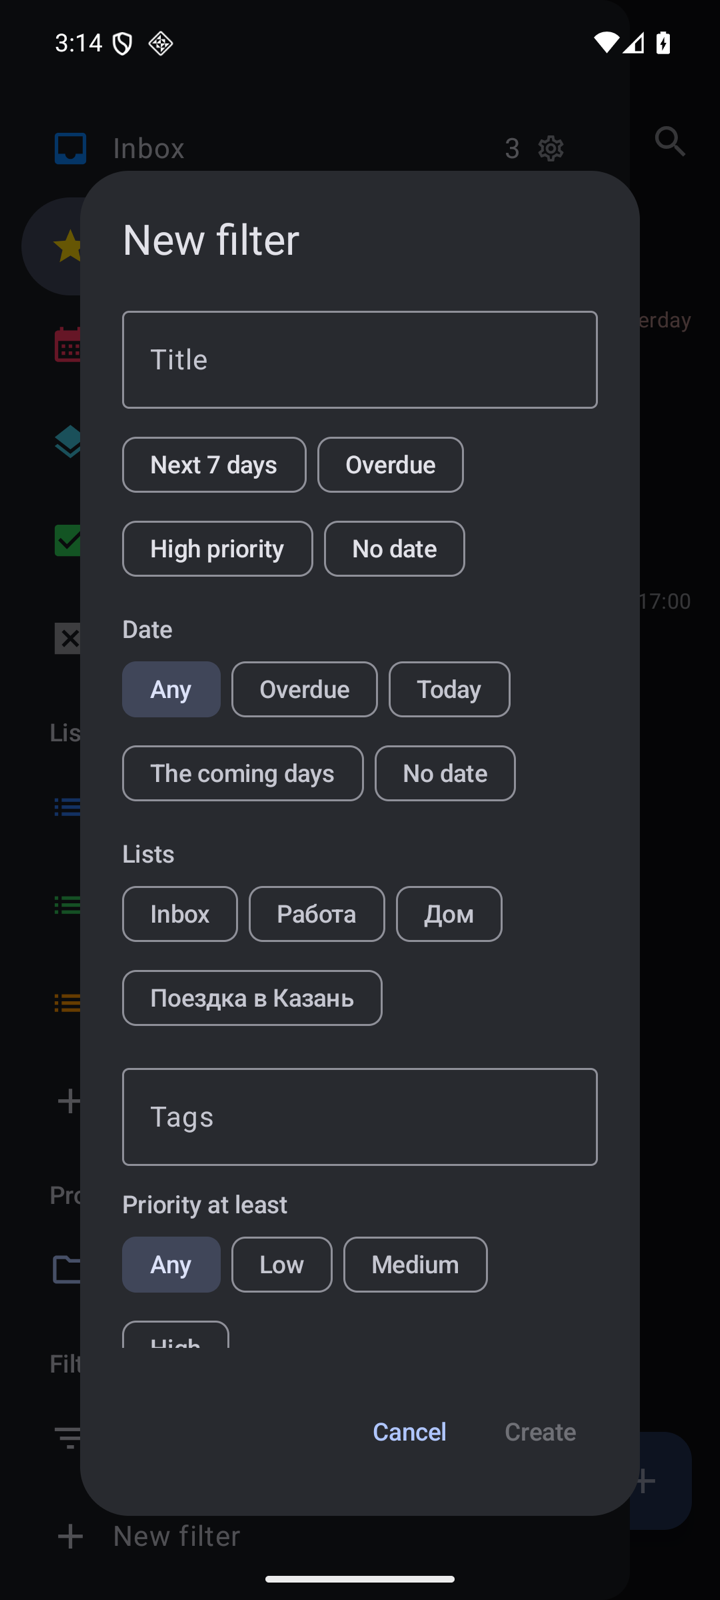
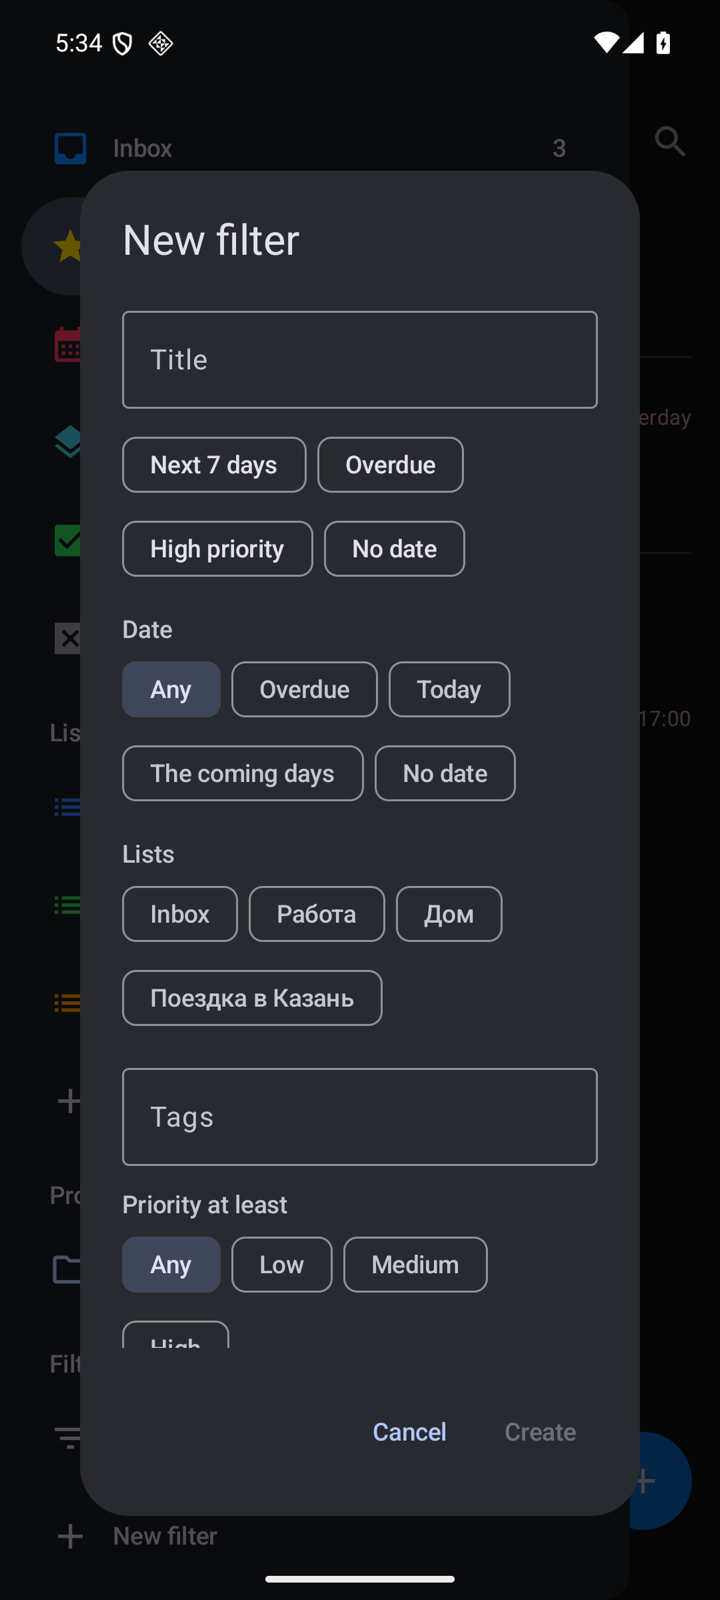
docs: describe the look of the Android app and take its screenshots again (R95, R96, R64)
R95 and R96 are new, the compact card of R64 is rewritten, each with a
scenario. The record of the check says what was looked at on the
emulator and what was not. The usage guide follows the new card of a
task, the new card of a new task and the long press in the panel of
lists.

diff --git a/docs/specs/product.md b/docs/specs/product.md
@@ -90,6 +90,7 @@
 - R61. Оформление выбирается на каждом устройстве: «Как в системе», «Светлое» или «Тёмное»; по умолчанию — как в системе. Выбор применяется сразу ко всему приложению (на macOS — к основному окну, окну быстрого ввода, окну в строке меню и настройкам) и сохраняется между запусками. Настройка принадлежит устройству, в вебе — браузеру, и не синхронизируется. Оформление меняет фон и цвет текста; цвета списков и красный цвет просроченного срока остаются теми же (принцип 7).
 - R79. macOS и Android: у встроенных представлений в боковой панели и в панели списков значок залитый и своего постоянного цвета: «Входящие» — синий, «Сегодня» — жёлтый, «Предстоящие» — розовый, «Все» — бирюзовый, «Выполненные» — зелёный, «Не буду делать» и «Корзина» — серый. Цвета одни и те же на обеих платформах, в светлом и тёмном оформлении отличаются только яркостью и от цветов списков и от динамической палитры Android не зависят. Значок списка остаётся в цвете списка, значки тегов, проектов и фильтров — без цвета.
 - R80. macOS: у основного окна нет полосы панели инструментов с названием. Содержимое начинается с крупного названия представления, перед названием стоит его значок: у встроенного представления — значок из R79, у списка — значок и цвет списка, у тега, проекта, фильтра и поиска — их значок из боковой панели. Кнопка «+», значок синхронизации и значок поиска стоят справа вверху окна, у его правого края. Поиск — значок, а не поле: щелчок по нему или ⌘F открывают поле поиска справа от крупного названия и ставят в него курсор; Esc очищает поиск и убирает поле, поле убирается и тогда, когда его покинули пустым, и при переходе в другое представление. ⌘N работает как раньше. Название окна в системе (меню «Окно», Mission Control) остаётся названием представления.
+- R95. Android: вид экрана списка. В полосе наверху названия нет: слева кнопка панели списков, справа значок поиска и за ним значок синхронизации. Содержимое начинается с крупного полужирного названия представления, перед ним стоит значок: у встроенного представления — значок из R79, у списка — значок и цвет списка, у тега, проекта и фильтра — их значок из панели списков. Название прокручивается вместе со списком и стоит и над пустым представлением. Пока открыт поиск, в полосе стоит его поле, а крупного названия нет. Отметка выполнения в строке задачи маленькая, тонкая и приглушённая, цвет списка она не несёт. Заголовок группы набран цветом текста, полужирным, под ним тонкая линия; красным остаётся только просроченный срок в строке. Кнопка «+» круглая, синего цвета «Входящих» (R79) в любом оформлении, с тенью. В панели списков у строк нет значка настройки: настройки «Входящих», списка, фильтра и списка из архива открывает долгое нажатие на строку. Под строкой, которую смахивают, видна цветная подложка со значком: зелёная с галочкой при смахивании вправо, жёлтая с календарём при смахивании влево.
 
 ### Заметка в Markdown
 
@@ -102,6 +103,7 @@
 - R81. Android: пока в заметке карточки задачи набирают текст, строка с курсором видна над клавиатурой. Когда заметка выше места над клавиатурой, карточка прокручивается за курсором — при наборе, при переносе курсора тапом и когда клавиатура появляется.
 - R82. macOS: вид карточки новой задачи. Название набрано тем же размером и начертанием, что текст заметки, квадрат перед ним приглушён. Под названием заметка с подсказкой «Заметки» (она же в карточке открытой задачи), под ней ряд полей: то, что задано, стоит слева плашкой со значением (начало, срок, повтор, приоритет, теги), то, что не задано, — справа значком без подписи, тонким и светлым (третичный цвет текста); значки «#» и вложения всегда справа. Пока открыт выбор поля, его плашка или значок остаётся на своём месте и переходит на другую сторону, когда выбор закрыт. В окне быстрого ввода карточка кончается полосой: слева список, в который попадёт задача, справа кнопки «Отмена» (то же, что Esc) и «Сохранить» (то же, что Return в названии; недоступна, пока названия нет). Кнопки полосы — капсулы с полужирным белым текстом: «Сохранить» цвета акцента, «Отмена» серая. У окна быстрого ввода нет системной рамки: оно нарисовано карточкой с углами круглее, чем у окон системы (радиус 16 пунктов), и перетаскивается за фон. Под заметкой пустой карточки в нём остаётся место на три строки, с более длинной заметкой окно растёт; над названием отступ больше, чем по бокам. В основном окне и в окне строки меню полосы нет, список стоит плашкой в ряду полей слева, а заметка занимает столько строк, сколько в ней есть. Заметка, взятая из буфера обмена (R58), пока её не тронули, показана блоком с подложкой и подписью «Из буфера обмена», не длиннее трёх строк, с кнопкой, которая её убирает; щелчок по блоку или переход в заметку с клавиатуры раскрывают его в обычную заметку целиком.
 - R94. macOS: вид карточки открытой задачи. В строке названия нет подложки выделения, под названием нет разделительной линии, справа нет шеврона. Отметка выполнения во всех строках списка — размером с текст, тонкая и приглушённая (третичный цвет текста), цвет списка она не несёт. Текст заметки набран обычным цветом текста, серой остаётся только подсказка «Заметки»; так же в карточке новой задачи и в окне быстрого ввода. Ряд полей устроен как в карточке новой задачи (R82): то, что задано, стоит слева плашкой со значением — начало, срок, повтор, напоминание, приоритет, теги; то, что не задано, — справа тонким светлым значком без подписи; значки «#», подзадачи (пока подзадачи не показаны) и вложения всегда справа. Пустых плашек «Начало» и «Срок» и кнопки «+» нет. Пока открыт выбор поля, его плашка или значок остаётся на своём месте. Карточка — прямоугольник с радиусом скругления 14 пунктов, без заметной обводки, с мягкой широкой тенью и отступами больше прежних; та же форма у карточки новой задачи по ⌘N.
+- R96. Android: вид карточки открытой задачи. Карточка остаётся нижней панелью. Название набрано обычным начертанием, отметка перед ним приглушена, как в строке списка (R95). Ряд полей под заметкой устроен как на macOS (R94): то, что задано, стоит слева плашкой со значком и значением — начало, срок, повтор, напоминание, приоритет, теги; то, что не задано, — справа светлым значком без подписи; значки тега, подзадачи (пока подзадачи не показаны) и вложения всегда справа. Просроченный срок открытой задачи в плашке красный. Пустых плашек «Начало» и «Срок» и кнопки «+» нет. Плашка тега убирает тег нажатием, остальные плашки и значки открывают выбор значения. Линии перед подзадачами нет. Подзадачи разделены тонкими линиями, отметка подзадачи — маленький кружок; выполненная подзадача серая, с галочкой в кружке, без зачёркивания.
 - R83. Название и заметка открытой задачи, которые правят в эту минуту, записываются не только когда поле теряет клавиатуру, но и когда приложение останавливают штатно: на macOS — при выходе (⌘Q, выход из системы) и когда приложение перестаёт быть активным, на Android — когда приложение уходит в фон. Набранное переживает выход и выгрузку приложения из памяти после ухода в фон. Принудительная остановка, падение и отключение питания при открытом поле сюда не входят: при них теряется набранное с последнего сохранения. Карточка новой задачи не сохраняется, пока задача не создана (R37).
 - R53. В веб-интерфейсе заметка вне правки показана оформленной, без символов разметки; щелчок по ней открывает поле правки с исходным текстом, потеря фокуса сохраняет заметку и возвращает оформленный вид. Чекбоксы в вебе не переключаются. Текст заметки попадает на страницу только текстом, не разметкой страницы; ссылка ведёт по адресу только со схемой `http`, `https` или `mailto`, остальные показываются текстом.
 - R60. Таблица в заметке показывается сеткой: столбцы выровнены по ширине самой длинной ячейки, строка заголовка выделена, строка из дефисов не показывается, выравнивание столбца (`:---`, `:---:`, `---:`) соблюдается, оформление внутри ячейки (жирный, код, ссылка) сохраняется. Короткая строка дополняется пустыми ячейками, лишние ячейки длинной строки не показываются. Текст заметки от этого не меняется (R50). В вебе сетка — таблица на месте исходного текста, пока заметка не открыта для правки; таблица шире заметки переносит текст внутри ячеек, а когда и этого мало, прокручивается вбок. На macOS и Android сетка показывается вне блока с курсором: курсор в любой строке таблицы возвращает её исходный текст моноширинным шрифтом, уход курсора возвращает сетку. Там же сетка не переносится по строкам, поэтому таблица шире заметки остаётся исходным текстом; исходным текстом остаётся и таблица внутри пункта списка или цитаты. Tab между ячейками не переходит.
@@ -123,7 +125,7 @@
 - R58. Окно быстрого ввода, открытое пустым, берёт заметку из буфера обмена: текст или адрес, скопированный перед этим, оказывается в заметке, курсор стоит в названии. Это относится к окну по глобальной клавише на macOS и к окну с ярлыка и с плитки на Android; «Поделиться», меню выделенного текста, окно строки меню и карточка новой задачи в основном окне буфер не читают. Одно и то же скопированное подставляется один раз: показанное в окне считается использованным, даже если задача не создана. Берётся только текст не длиннее 2000 знаков, пробелы по краям отбрасываются; файлы, изображения и то, что источник пометил как скрытое (пароли), пропускаются; более длинный текст не обрезается, а пропускается целиком. Подставленный текст правится как набранный; пока он не изменён, рядом с заметкой есть кнопка, которая убирает его одним действием. Настройка «Заметка из буфера обмена» в разделе «Новые задачи» принадлежит устройству, не синхронизируется и по умолчанию включена; пока она выключена, буфер не читается вовсе. Android 12 и новее сам показывает сообщение о чтении буфера — оно появляется один раз на скопированное, потому что уже использованное приложение узнаёт по описанию буфера, не читая содержимого.
 - R59. Android: диалог с полями ввода (настройки, список, фильтр, тег, свой повтор) остаётся над клавиатурой: пока она открыта, диалог занимает место над ней, его кнопки видны, а содержимое прокручивается. В низком окне — высота меньше 480 dp: окно быстрого ввода на повёрнутом телефоне или разделённый экран, потому что главное окно на телефоне не поворачивается (R77), — заголовок, поле и кнопки обычного диалога над клавиатурой не помещаются, поэтому там такой диалог занимает весь экран: заголовок и кнопки стоят одной строкой наверху и при открытой клавиатуре видны, содержимое прокручивается под ними. Вид выбирается по высоте окна, а не по клавиатуре: её появление диалог не перестраивает и курсор из поля не уводит. Диалоги без полей ввода (дата, приоритет, выбор из списка) остаются обычными.
 - R63. Android: поворот экрана не закрывает карточку новой задачи и не стирает введённое в ней. Поворачиваются окно быстрого ввода и главное окно на широком дисплее; на телефоне главное окно стоит в портретной ориентации (R77). Сохраняются название, заметка, дата начала, срок, повтор, приоритет, выбранные файлы и список — и в карточке на главном экране (R57), и в окне быстрого ввода. Диалог, открытый из карточки или из редактора задачи (дата, повтор, приоритет, список, тег), остаётся открытым; в нём сохраняются шаг выбора даты, поля своего повтора и набранный тег. Заметка, взятая из буфера обмена (R58), после поворота остаётся вместе с кнопкой, которая её убирает; убранная заметка не возвращается. В портретной ориентации карточка возвращается в том размере, в каком была до поворота (R64).
-- R64. Android: карточка новой задачи одна, двух размеров; она же стоит в окне быстрого ввода. Компактная, по умолчанию: название и кнопка отправки в одной строке, заметка и ряд значков — дата начала, срок, повтор, приоритет, файл, список. Заметка компактной карточки занимает одну строку, пока пуста, и растёт вместе с текстом до пяти строк; заметка длиннее прокручивается внутри своего поля, строка с курсором в нём видна, а карточка выше не становится — название, кнопка отправки и ряд значков остаются над клавиатурой. Заданное значение стоит рядом со своим значком: «завтра», «каждую неделю», приоритет восклицательными знаками, число файлов, имя списка; значение, которому не хватает места, обрезается многоточием. На ширине телефона ряд виден целиком и вбок не прокручивается, в том числе когда заданы срок, повтор и приоритет. Кнопка в строке названия разворачивает карточку на весь экран. Развёрнутая: строка названия с кнопкой отправки стоит наверху, под ней прокручиваются заметка в несколько строк и те же поля строками с подписями; кнопка в строке названия сворачивает карточку. Разворот и сворачивание сохраняют всё введённое и оставляют курсор там, где он был. В альбомной ориентации — на телефоне в ней бывает только окно быстрого ввода (R77) — карточка всегда развёрнута и не сворачивается: компактной над клавиатурой не хватает места; при открытой клавиатуре название и кнопка отправки видны, а до заметки и полей можно докрутить. Заметка в карточке — простой текст в обоих размерах.
+- R64. Android: карточка новой задачи одна, двух размеров; она же стоит в окне быстрого ввода. Компактная, по умолчанию: приглушённый квадрат и название обычным начертанием, заметка, ряд полей и полоса внизу. В ряду полей то, что задано, стоит слева плашкой со значком и значением — начало, срок, повтор, приоритет, число файлов; то, что не задано, — справа светлым значком без подписи; значок файла всегда справа. Плашкой стоит и то, что разобрано из названия (R41): срок, приоритет, теги, список. Приоритет в плашке назван словом, а не восклицательными знаками. В полосе слева список, в который попадёт задача, справа кнопка-капсула «Сохранить» синего цвета «Входящих» (R79); она недоступна, пока названия нет. Кнопки отправки у названия в компактной карточке нет. Заметка компактной карточки занимает одну строку, пока пуста, и растёт вместе с текстом до пяти строк; заметка длиннее прокручивается внутри своего поля, строка с курсором в нём видна, а карточка выше не становится — название, ряд полей и полоса остаются над клавиатурой. Плашки, которым не хватает ширины, переходят на следующую строку ряда, вбок ряд не прокручивается. Кнопка в строке названия, светлый значок, разворачивает карточку на весь экран. Развёрнутая: строка названия с кнопкой отправки стоит наверху, под ней прокручиваются заметка в несколько строк и те же поля строками с подписями; кнопка в строке названия сворачивает карточку. Разворот и сворачивание сохраняют всё введённое и оставляют курсор там, где он был. В альбомной ориентации — на телефоне в ней бывает только окно быстрого ввода (R77) — карточка всегда развёрнута и не сворачивается: компактной над клавиатурой не хватает места; при открытой клавиатуре название и кнопка отправки видны, а до заметки и полей можно докрутить. Заметка в карточке — простой текст в обоих размерах.
 - R65. Android: смахивание вправо, начатое в полосе шириной 56 dp у левого края экрана, открывает панель списков и задачу под пальцем не трогает. Начатое правее полосы выполняет задачу, как прежде. Нажатие на отметку, долгое нажатие и прокрутка в полосе работают как везде. При жестовой навигации внешнюю часть полосы забирает системный жест «назад», панели достаётся остальное.
 - R66. Android: уведомление приходит в назначенную минуту: будильники точные, если приложению разрешены «Будильники и напоминания». На Android 13 и новее после установки разрешения нет: настройки уведомлений тогда показывают строку о том, что напоминания могут опаздывать, и нажатие на неё открывает системный экран этого разрешения для Lists. Без разрешения будильники остаются неточными: система вправе показать уведомление позже назначенного, окно доставки доходит до часа. До Android 12 разрешение не требуется. Когда разрешение дают, будильники сразу ставятся заново точными. Когда его забирают, система останавливает приложение и снимает его будильники; они возвращаются неточными при следующем запуске приложения. Точными становятся все уведомления из R36: напоминания, сроки и сводка дня.
 - R67. Android: смахивание вниз в начале списка запускает синхронизацию сразу, не дожидаясь расписания. Пока она идёт, вверху списка виден индикатор; синхронизация, которая началась сама, его не показывает. Жест работает во всех представлениях, включая пустые. Пока синхронизация не настроена, жеста нет. Итог виден тем же значком, что и всегда (R27).
@@ -204,7 +206,10 @@ Android: один экран со списком задач, выдвижная 
 - R37, R82: ⌘N → набрать «а» → Esc → карточки нет, задачи «а» нет. ⌘N → набрать «б» → Return → задача «б» создана. ⌘N → набрать «в», перейти в заметку → ⌘Return → задача «в» создана. В карточке поставить срок и приоритет → они стоят слева плашками, остальные поля справа значками; Tab идёт по плашкам, затем по значкам, затем в название. Скопировать длинный текст, открыть окно быстрого ввода → под названием блок «Из буфера обмена» из трёх строк, внизу полоса со списком и кнопками; щелчок по блоку → заметка целиком, блока нет.
 - R94: открыть задачу со сроком, высоким приоритетом и тегом → в строке названия ни подложки, ни линии под ней, ни шеврона; слева три плашки, справа значки начала, повтора, напоминания, «#», подзадачи и вложения. Щёлкнуть значок повтора и выбрать «Каждую неделю» → плашка повтора встала слева, значка справа нет. Tab из заметки идёт по плашкам, затем по значкам, затем в название. Esc закрывает карточку.
 - R83: открыть задачу, набрать в заметке «купить» и, не уходя из заметки, выйти из приложения (macOS, ⌘Q) или нажать «Домой» и дождаться выгрузки приложения (Android) → открыть приложение → в заметке «купить». То же с названием задачи.
-- R64: Android, нажать «+», перейти в заметку компактной карточки и набрать три строки → видны все три, ряд значков стоит под ними. Набрать ещё семь → поле заметки высотой в пять строк, видна десятая строка с курсором, название, кнопка отправки и ряд значков видны над клавиатурой. Развернуть карточку и свернуть обратно → все десять строк на месте, курсор в заметке. То же в окне быстрого ввода.
+- R64: Android, нажать «+», перейти в заметку компактной карточки и набрать три строки → видны все три, ряд полей стоит под ними. Набрать ещё семь → поле заметки высотой в пять строк, видна десятая строка с курсором, название, ряд полей и полоса с кнопкой «Сохранить» видны над клавиатурой. Развернуть карточку и свернуть обратно → все десять строк на месте, курсор в заметке. То же в окне быстрого ввода.
+- R64: Android, нажать «+», набрать «Позвонить в банк завтра 10:00 !!» → в ряду полей слева плашки «Завтра, 10:00» и «Средний», справа значки начала, повтора и файла, значков срока и приоритета нет; в полосе слева список, справа «Сохранить». Нажать «Сохранить» → задача создана со сроком завтра в 10:00 и средним приоритетом, карточка пуста и открыта, «Сохранить» недоступна.
+- R95: Android, открыть «Сегодня» с просроченной задачей → в полосе наверху названия нет, над задачами крупное «Сегодня» с жёлтой звездой, заголовки «Просрочено» и «Сегодня» набраны цветом текста с линией под ними, отметки серые у задач любого списка, кнопка «+» круглая и синяя. Открыть список → перед крупным названием значок списка в его цвете. Открыть панель списков и долго нажать на список → открыты его настройки; значка настройки у строк нет.
+- R96: Android, открыть задачу со сроком, приоритетом и тегом, без начала, повтора и напоминания → под заметкой слева плашки срока, приоритета и тега, справа значки начала, повтора, напоминания, тега и файла; плашек «Начало» и «Срок» без значения нет. Нажать значок повтора и выбрать «Каждую неделю» → слева появилась плашка повтора, значка повтора справа нет. У задачи с тремя подзадачами, одна из которых выполнена, → между подзадачами линии, отметки круглые, выполненная серая с галочкой и не зачёркнута.
 - R77: Android, телефон, открыт список → повернуть устройство набок → окно остаётся портретным; открыть окно быстрого ввода из «Поделиться» поверх приложения в альбомной ориентации → окно быстрого ввода альбомное, карточка в нём развёрнута (R64).
 - R45: карточка новой задачи со сроком 2026-10-05 и повтором «каждую неделю» → создать → у задачи правило «каждую неделю»; завершить → срок 2026-10-12.
 - R48: заметка `# План` + пустая строка + `**важно** и *срочно*, см. [сайт](https://example.org)` → диапазоны: заголовок первого уровня на «План», жирный на «важно», курсив на «срочно», ссылка с адресом `https://example.org` на «сайт»; `# `, `**`, `*`, `[` и `](https://example.org)` помечены разметкой. Смещения считаются в единицах UTF-16: в заметке `😀 **да**` жирный начинается с 5.
@@ -308,6 +313,8 @@ Android: один экран со списком задач, выдвижная 
 **Более лёгкий вид карточки новой задачи** (R82, #136) — решения автора проекта от 2026-10-09 записаны в #136: обычное начертание названия и светлые значки во всех трёх местах, углы окна быстрого ввода круглее, подсказка «Заметки». Проверено 2026-10-09 в скрытом экземпляре отладочной сборки с отдельной папкой данных, русский интерфейс, светлое оформление. Шаг `quicknote` нарисовал окно быстрого ввода в файл: название обычным начертанием размером текста, подсказка «Заметки», под ней пустое место до ряда значков, шесть светлых тонких значков справа, полоса со списком «Входящие» и двумя капсулами — серой «Отмена» и бледной (недоступной) «Сохранить»; углы скруглены, высота пустого окна 184 пункта вместо прежних 150. Шаг `winshot` в основном окне: у карточки по ⌘N то же название и те же значки, заметка в одну строку, полосы нет. Tab из названия ведёт в заметку, следующий — на плашку списка; Esc закрывает карточку. Не проверено: видимое окно рядом с окном Things — приёмка issue; принимает ли окно без системной рамки клавиатуру по глобальной клавише, перетаскивается ли оно и какая у него тень (в скрытом запуске окно прозрачно и клавиатуру не берёт); тёмное оформление; кнопки-капсулы щелчком и с клавиатуры; окно строки меню; рост окна с длинной заметкой.
 
 **Более лёгкий вид карточки открытой задачи** (R94, #159) — решения автора проекта от 2026-10-09 записаны в #159; отметку выполнения он попросил приглушить и уменьшить по тому же сравнению с Things. Проверено 2026-10-09 в скрытом прозрачном экземпляре отладочной сборки на демо-данных, шаг `winshot`: у открытой задачи «Квартальный отчёт» нет подложки, линии и шеврона, отметка серая размером с текст, заметка тёмная, слева плашки срока, приоритета и тега, справа шесть светлых значков, вложение и строка подзадач на месте, углы скруглены, обводки не видно; у «Планёрки» слева срок, повтор и тег; у карточки новой задачи та же форма. Tab из названия ведёт в заметку, затем на срок, приоритет, тег, начало; Esc закрывает карточку. Не проверено: видимое окно рядом с окном Things — приёмка issue; тёмное оформление, где карточку от окна отличает только слабая обводка; выбор значения из значка справа и переход плашки на левую сторону; значок подзадачи и значок напоминания щелчком; радиус 14, тень и отступы выбраны без замера по Things.
+
+**Вид Android по образцу Things** (R95, R96, R64, #161) — решения автора проекта от 2026-10-09 записаны в #161; образцом служили снимки Things 3 для iPhone из App Store и со справочных страниц culturedcode.com, приложения для Android у Things нет. Проверено 2026-10-09 на эмуляторе API 36 (1080×2400) без окна на демо-данных (`cargo run --example demo`), английский интерфейс, `uiautomator dump` и снимки экрана. «Сегодня», тёмное оформление: в полосе слева меню, справа поиск, названия нет; под полосой крупное «Today» с жёлтой звездой; «Overdue» и «Today» набраны цветом текста с линией; отметки серые у задач синего и зелёного списков; «+» круглая и синяя. Список «Работа», светлое оформление: перед названием значок списка синим. Панель списков: значков настройки у строк нет, долгое нажатие на «Работа» открыло настройки списка. Смахивание строки: вправо — зелёная подложка с галочкой, влево — жёлтая с календарём; строка отпущена на месте, задача не изменилась. Карточка задачи «Квартальный отчёт»: название обычным начертанием, слева плашки «Today, 17:00» (красная, срок прошёл), «High», «#отчёты», под ними справа значки начала, повтора, напоминания, тега и файла; между тремя подзадачами линии, отметки круглые, выполненная серая с галочкой без зачёркивания. У «Планёрки» слева срок, повтор «Every week» и тег, плашки перешли на вторую строку, значки стоят третьей. Значок повтора открывает выбор повтора. Карточка новой задачи: после «Call the bank tomorrow 10:00 !!» слева плашки «Tomorrow, 10:00» и «Medium», справа значки начала, повтора и файла, в полосе список и синяя «Save»; нажатие «Save» создало задачу со сроком на завтра 10:00 и средним приоритетом (запрос к базе приложения), карточка осталась открытой и пустой, «Save» недоступна. Окно быстрого ввода из «Поделиться» показывает ту же карточку. Снимки `docs/screenshots/android-*.png` сняты заново той же сборкой. Не проверено: выбор значения в открывшемся выборе и переход значка в плашку (нажатие в сценарии прошло мимо пункта); развёрнутая карточка новой задачи; значок синхронизации рядом с поиском (синхронизация в эмуляторе не настроена); пустое представление и крупное название над ним; названия тега, проекта и фильтра; русский интерфейс; TalkBack; настоящий телефон. Не сделано: ручки перетаскивания у подзадач на макете — перестановки подзадач на Android нет; название в карточке открытой задачи стоит правее заметки на 16 dp, как и раньше.
 
 **Клавиатура в карточке по ⌘N после быстрого ввода** (R37, #152) — найдено автором проекта 2026-10-09 в видимом окне отладочной сборки: после работы с окном быстрого ввода ⌘N в основном окне открывал карточку, в которую нельзя было писать. Состояние снято шагом `state` раз в две секунды, пока автор повторял сценарий руками: основное окно ключевое, карточка открыта, а клавиатура у корневого вида окна (`AppKitWindowHostingView`), не у поля названия; до ⌘N она была у списка задач. Просьба карточки о клавиатуре при появлении теряется. Почему — не установлено: скриптом в видимом окне (панель, Esc, панель, задача через неё, ⌘N) и в скрытом экземпляре (клавиатура у списка, выделена строка, ⌘N, шесть раз) сбой не воспроизвёлся, нужен проход панели руками. Отвергнуто замером: основное окно после закрытия панели остаётся ключевым. Правка: карточка в основном окне через 50, 150, 350 и 750 мс после появления смотрит, есть ли клавиатура у текста, плашки или открытого выбора, и если нет — просит её для названия заново. Проверено тем же ручным сценарием на сборке с правкой: сбой случился три раза, каждый раз карточка попросила клавиатуру повторно и получила её, название набрано. В скрытом экземпляре обычный путь не изменился: ⌘N даёт клавиатуру названию без повторной просьбы, Tab ведёт в заметку и на плашки. Не проверено: кнопка «+», окно строки меню, сборка для выпуска; связь со вспышкой из #83.
 

diff --git a/docs/usage.md b/docs/usage.md
@@ -35,7 +35,7 @@ In the list on macOS and Android a task takes one line. Before the title stand t
 - **Tags** are created by typing them. A tag that no task carries disappears from the sidebar.
 - **Attachments** are files and images in any number. Once downloaded to a device they open without a network. A file whose name does not tell its type is shown by its content: "Image" that holds a JPEG is listed as "Image.jpg" and opens as a picture. A downloaded file can be saved outside the app and handed to another one: Save As… under the ⋯ button of the file on macOS, or a drag from the card to Finder; Save to…, Share and Open in another app in the ⋮ menu of the file on Android, where the viewer of an image or a PDF offers saving and sharing as well. In the web interface a file is added with "Attach file" in the card of a task. A task with more than one file saves them all in one action: Save All… in the menu of a file or of the task on macOS asks for a folder and writes every file there; Save all to… in the ⋮ menu of a file or of the task on Android does the same, and Share all hands every file to another app. Nothing in the folder is replaced: a file whose name is taken is saved next to it under a free name, such as "Image 2.jpg". Files that are not downloaded yet are downloaded first; a file that could not be downloaded or written is named in a message, and the rest are saved. A task reaches the other devices before the content of its files: the attachment is listed as not downloaded yet and arrives a little later by itself. A click or a tap on such an attachment downloads it right away and opens it; in the web interface the server fetches the file from the storage first. When the file has not reached the storage yet, its row says that the download failed, and the next click tries again. The sync icon, and the sync button of the web interface, tell how many attachments still wait. With CalDAV sync, attachments up to 5 MB are synced, up to 20 MB per task; the rest stay on the device they were added on. An image or a PDF opens inside the app: on macOS a click on the name or Space on the selected file shows it in Quick Look, and the context menu still opens it in the default app; while a file is selected Space belongs to it and not to the task, and Esc closes the card; on Android it opens full screen, where an image zooms with two fingers or a double tap and a PDF scrolls page by page; on the web PNG, JPEG, GIF, WebP and PDF open over the page, and every other file is downloaded. Images show a thumbnail in the task card.
 
-On macOS a task opens in place in the list as an outlined card; on Android it opens as a bottom sheet over the list. The card always shows the start date and the due date. Other empty fields take no room: they are added from the "+" button.
+On macOS a task opens in place in the list as an outlined card; on Android it opens as a bottom sheet over the list. On macOS the card always shows the start date and the due date, and other empty fields take no room: they are added from the "+" button. On Android the card has one row of fields: a field that is set stands at the left as a chip with its value, a field that is not set is a light icon at the right. A tap on either opens the choice; a tap on the chip of a tag removes the tag. Subtasks have a round mark, and a completed one turns grey.
 
 On Android a tap on a date offers Today, Tomorrow, In a week and "Pick a date…". The first three set the day with one tap. "Pick a date…" opens a calendar with a Time row under it: tap the row to give the chosen day a time, or press Done to keep the day alone. A date that is already set also gets its time changed or removed from the first menu.
 
@@ -76,7 +76,7 @@ A project is a top-level task marked as a project. It appears in the sidebar wit
 
 ## Repeats
 
-A repeat is set in the card of a task. On macOS the card of a new task, in the main window, in the quick-entry window and in the menu bar, always has a Repeat chip. In an open task the chip appears once a rule is set; until then Repeat is under the "+" button. ⇧⌘R opens it from anywhere in either card. On Android the card of a new task and the quick-entry window have a Repeat icon, and in the editor Repeat is under the "+" button until a rule is set. The rule counts from the due date, or from the start date when there is no due date.
+A repeat is set in the card of a task. On macOS the card of a new task, in the main window, in the quick-entry window and in the menu bar, always has a Repeat chip. In an open task the chip appears once a rule is set; until then Repeat is under the "+" button. ⇧⌘R opens it from anywhere in either card. On Android the card of a new task and the quick-entry window have a Repeat icon, and in the editor Repeat is a light icon in the row of fields until a rule is set. The rule counts from the due date, or from the start date when there is no due date.
 
 Presets: every day, on weekdays, every week, every two weeks, every month, every quarter, every year.
 
@@ -108,7 +108,7 @@ In the quick-entry window on macOS a strip at the bottom shows the list the task
 Where the entry field is:
 
 - **macOS**: the card in the main window (⌘N); a global hotkey that opens a small window over any app (⌃⌥Space by default, changeable in Settings); the menu bar item, which also lists today's tasks; the share extension; the Services menu; the `lists://add?text=…` URL.
-- **Android**: the "+" button on the main screen, which opens the card of a new task as a bottom sheet and keeps it open for the next task after Done on the keyboard or the send button (back or a tap outside closes it). The card is compact: the title, the note and a row of icons for the start date, the due date, the repeat, the priority, files and the list, each with its value next to it once set. The note grows with its text up to five lines and scrolls inside itself after that. The button beside the title expands the card to the full screen, where the note has room and the fields are rows with names; the same button brings it back, and nothing typed is lost. Besides the button there is a small window over the current app from Share, from the text-selection menu, from the launcher shortcut and from the quick settings tile. That window turns with the app under it, and in landscape its card is always expanded.
+- **Android**: the "+" button on the main screen, which opens the card of a new task as a bottom sheet and keeps it open for the next task after Done on the keyboard or Save (back or a tap outside closes it). The card is compact: the title, the note, a row of fields and a strip at the bottom with the list the task goes to and Save. In the row the start date, the due date, the repeat, the priority and files are light icons at the right until they are set, and chips with their value at the left after that; what is read from the title stands there as chips as well. The note grows with its text up to five lines and scrolls inside itself after that. The button beside the title expands the card to the full screen, where the note has room and the fields are rows with names; the same button brings it back, and nothing typed is lost. Besides the button there is a small window over the current app from Share, from the text-selection menu, from the launcher shortcut and from the quick settings tile. That window turns with the app under it, and in landscape its card is always expanded.
 - **Web**: the New task field in the task list.
 
 A new task takes its place from the view it is created in: the list on screen, the project it is added to, or the default list from the settings where the view has no list of its own (Today, Upcoming, All, a tag, a filter). The view sets nothing else. A task created in Today has no due date, and a task created in the view of a tag has no tag, until you set them in the card or type them in the title; without them the task is not in that view once it is saved. The defaults of a list, a priority and "due today", stand next to their icons in the card on macOS and Android before the task is saved. They follow the list chosen in the card and can be changed or removed like a value you picked, and what the title says wins over them.
@@ -237,7 +237,7 @@ On a phone the app stays in portrait and does not turn with the device. The quic
 
 ## Gestures on Android
 
-Swipe right to complete, swipe left to set the due date; a swipe to the right that starts at the left edge of the screen opens the panel with the lists instead. Pull down at the top of a list to sync right away; this works once sync is set up. Long-press for the menu: due date, priority, move to list, add subtask, duplicate, won't do, delete.
+The title of the view stands large at the top of the list; the menu, search and the sync icon are in the row above it. A long press on Inbox, a list or a filter in the panel with the lists opens its settings. Swipe right to complete, swipe left to set the due date; a swipe to the right that starts at the left edge of the screen opens the panel with the lists instead. Pull down at the top of a list to sync right away; this works once sync is set up. Long-press for the menu: due date, priority, move to list, add subtask, duplicate, won't do, delete.
 
 ## Backups
 
